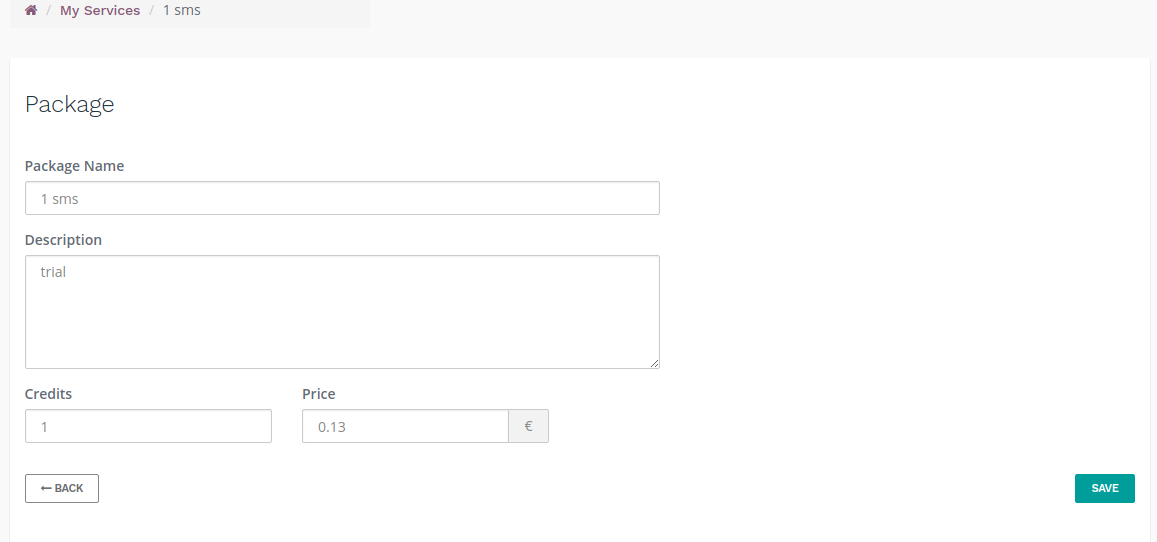
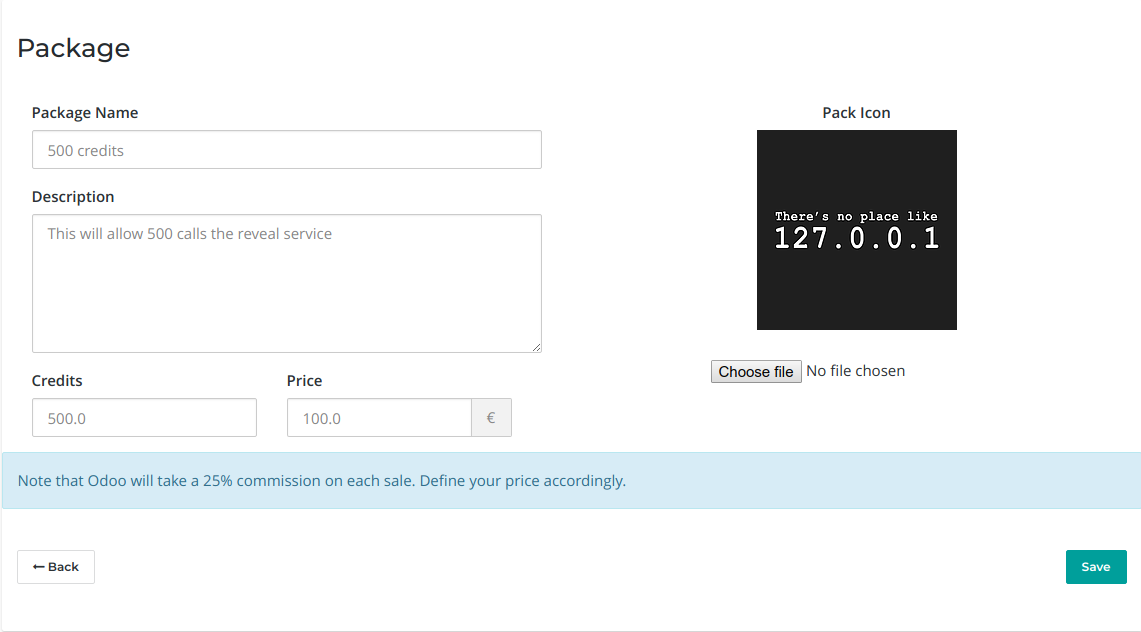
[IMP] iap: Update documentation with new functionalities
closes odoo/odoo#28282

diff --git a/doc/webservices/iap.rst b/doc/webservices/iap.rst
@@ -81,8 +81,11 @@ Overview
 
     The Credits
 
+.. note:: The credits went from integer to float value starting **October 2018**
+    Integer values are still supported.
+
     Every service provided through the In-App platform can be used by the
-    clients with tokens or *credits*. The credits are an integer unit and
+    clients with tokens or *credits*. The credits are an float unit and
     their monetary value depends on the service and is decided by the
     provider. This could be:
 
@@ -157,7 +160,8 @@ The first step is to register your service on the IAP endpoint (production
 and/or test) before you can actually query user accounts. To create a service,
 go to your *Portal Account* on the IAP endpoint (https://iap.odoo.com for
 production, https://iap-sandbox.odoo.com for testing, the endpoints are
-*independent* and *not synchronized*). 
+*independent* and *not synchronized*). Alternatively, you can go to your portal
+on Odoo (https://iap.odoo.com/my/home) and select *In-App Services*.
 
 .. note:: 
     
@@ -166,33 +170,45 @@ production, https://iap-sandbox.odoo.com for testing, the endpoints are
     on sandbox to ease the tests.
 
 Log in then go to :menuselection:`My Account --> Your In-App Services`, click
-Create and provide the name of your service. 
+Create and provide the informations of your service.
 
 
-The now created service has *two* important fields:
+The service has *four* important fields:
 
 * :samp:`name` - :class:`ServiceName`: this will identify your service in the
-  client's :ref:`app <iap-odoo-app>` communicates directly with IAP.
-* :samp:`key` - :class:`ServiceKey`: the developer key that identifies you in 
-  IAP (see :ref:`your service <iap-service>`) and allows to draw credits from
-  the client's account.
-
+  client's :ref:`app <iap-odoo-app>` communicates directly with IAP, choose it 
+  carefully!
 .. warning::
     The :class:`ServiceName` is unique and should usually match the name of your 
-    Odoo App.
+    Odoo Client App.
 
+* :samp:`Icon` - :class:`Icon`: A generic icon that will serve as default for your
+  :ref:`packages <iap-packages>`
+
+* :samp:`key` - :class:`ServiceKey`: the developer key that identifies you in 
+  IAP (see :ref:`your service <iap-service>`) and allows to draw credits from
+  the client's account. It will be shown only once upon creation of the service
+  and can be regenerated at will.
 .. danger:: 
     Your :class:`ServiceKey` *is a secret*, leaking your service key
     allows other application developers to draw credits bought for
     your service(s).
 
-.. image:: images/service_select.png
+* :samp:`privacy policy` - :class:`PrivacyPolicy`: This is an url to the privacy
+  policy of your service. This should explicitly mention the **information you collect**,
+  How you **use it, its relevance** to make your service work and inform the 
+  client on how they can **access, update or delete their personal information**.
+
+.. image:: images/menu.png
     :align: center
 
-.. image:: images/service_create.png
+.. image:: images/service_list.png
     :align: center
 
-.. image:: images/service_packs.png
+.. image:: images/creating_service.png
+    :align: center
+
+.. image:: images/service_created.png
     :align: center
 
 You can then create *credit packs* which clients can purchase in order to
@@ -203,9 +219,10 @@ use your service.
 Packages
 --------
 
-The credit packages are essentially a product with 4 characteristics.
+The credit packages are essentially a product with 5 characteristics.
 
 * Name: the name of the package,
+* Icon: A specific icon for the package. If not provided, it will fallback on the service icon
 * Description: details on the package that will appear on the shop page as
   well as the invoice,
 * Credits: the amount of credits the client is entitled to when buying the package,
@@ -362,7 +379,6 @@ parameters we can use to make things clearer to the end-user:
 .. patch::
 
 
-
 .. TODO:: how do you test your service?
 
 JSON-RPC2_ Transaction API
@@ -394,13 +410,13 @@ Authorize
 
     :param ServiceKey key:
     :param UserToken account_token:
-    :param int credit:
+    :param float credit:
     :param str description: optional, helps users identify the reason for
                             charges on their accounts.
     :returns: :class:`TransactionToken` if the authorization succeeded.
     :raises: :class:`~odoo.exceptions.AccessError` if the service token is invalid
     :raises: :class:`~odoo.addons.iap.models.iap.InsufficientCreditError` if the account does
-    :raises: ``TypeError`` if the ``credit`` value is not an integer
+    :raises: ``TypeError`` if the ``credit`` value is not an integer or a float
 
 .. code-block:: python
 
@@ -434,7 +450,7 @@ Capture
 
     :param TransactionToken token:
     :param ServiceKey key:
-    :param int credit_to_capture: (new - 15 Jan 2018) optional parameter to capture a smaller amount of credits than authorized
+    :param float credit_to_capture: (new - 15 Jan 2018) optional parameter to capture a smaller amount of credits than authorized
     :raises: :class:`~odoo.exceptions.AccessError`
 
 .. code-block:: python
@@ -534,6 +550,33 @@ care how they are implemented
 
     Raised by any unexpeted behaviour at the discretion of the App developer (*you*).
 
+
+Test the API
+------------
+
+In order to test the developped app, we propose a sandbox platform that allows you to:
+
+1. Test the whole flow from the client's point of view - Actual services and transactions
+   that can be consulted. (again this requires to change the endpoint, see the danger note
+   in :ref:`Service <iap-service>`)
+2. Test the API.
+
+The latter consists in specific tokens that will work on **IAP-Sandbox only**.
+
+* token ``000000``: represents a non-existing account. Returns
+  an :class:`~odoo.addons.iap.models.iap.InsufficientCreditError` on authorize attempt.
+* token ``000111``: Represents an account without sufficient credits to perform any service.
+  Returns an :class:`~odoo.addons.iap.models.iap.InsufficientCreditError` on authorize attempt.
+* token ``111111``: Represents an account with enough credits to perform any service. 
+  An authorize attempt will return a dummy transacion token that is processed by the capture 
+  and cancel routes.
+
+.. note::
+
+    * Those tokens are only active on the IAP-Sanbox server.
+    * The service key is completely ignored with this flow, If you want to run a robust test 
+      of your service, you should ignore these tokens.
+
 Odoo Helpers
 ============
 
@@ -548,7 +591,7 @@ Charging
 .. note::
 
     A new functionality was introduced to capture a different amount of credits than reserved.
-    As this patch was added on the 15th of January 2018, you will need to upgrade your ``iap`` module in order to use it.
+    As this patch was added on the **15th of January 2018**, you will need to upgrade your ``iap`` module in order to use it.
     The specifics of the new functionality are highlighted in the code. 
 
 .. class:: odoo.addons.iap.models.iap.charge(env, key, account_token, credit[, description, credit_template])
@@ -567,12 +610,12 @@ Charging
                                      configuration key
     :param ServiceKey key:
     :param UserToken token:
-    :param int credit:
+    :param float credit:
     :param str description:
     :param Qweb template credit_template:
 
 .. code-block:: python
-  :emphasize-lines: 10,13,14,15
+  :emphasize-lines: 11,13,14,15
 
     @route('/deathstar/superlaser', type='json')
     def superlaser(self, user_account,
@@ -583,7 +626,8 @@ Charging
                        0.0 is none, 1.0 is full power
         """
         credits = int(MAXIMUM_POWER * factor)
-        with charge(request.env, SERVICE_KEY, user_account, credits) as transaction:
+        description = "We will demonstrate the power of this station on your home planet of Alderaan."
+        with charge(request.env, SERVICE_KEY, user_account, credits, description) as transaction:
             # TODO: allow other targets
             transaction.credit = max(credits, 2)
             # Sales ongoing one the energy price,
